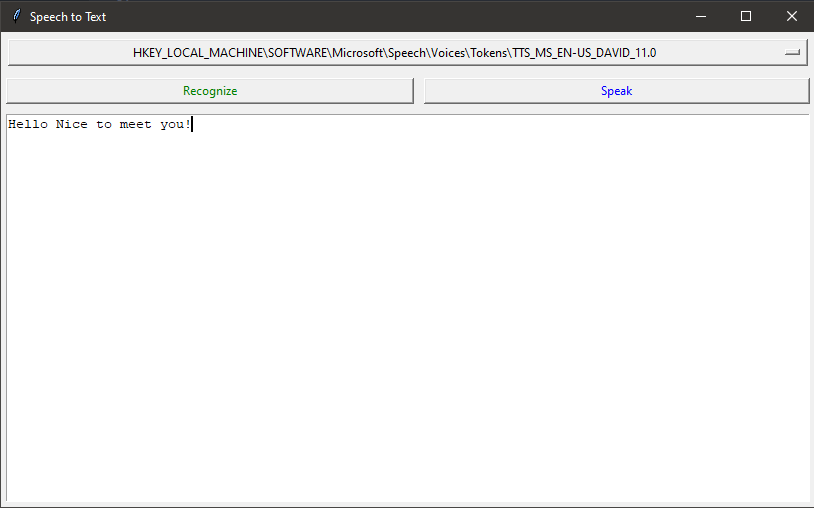
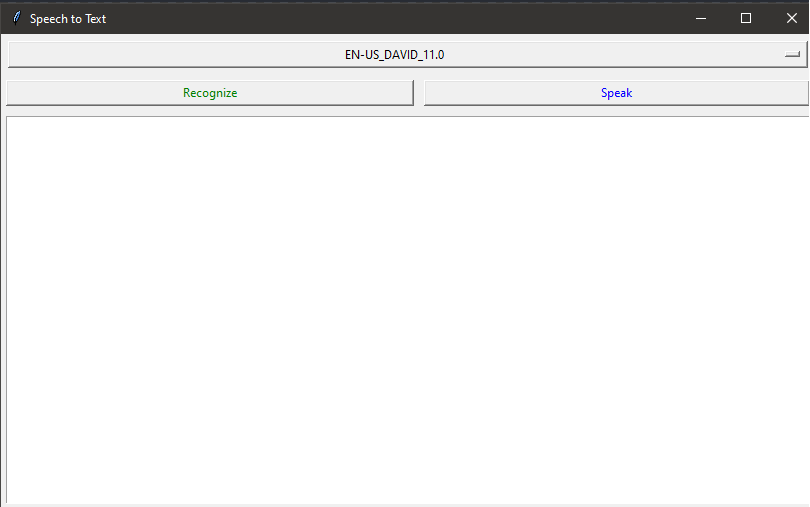
Updated Readme And Image

diff --git a/main.py b/main.py
@@ -1,3 +1,5 @@
+
+
 import speech_recognition as sr
 import pyttsx3
 import tkinter as tk
@@ -10,7 +12,7 @@ voices = engine.getProperty('voices')
 def getVoicesDetails():
     names = []
     for voice in voices:
-        names.append(voice.id)
+        names.append(voice.id.replace("HKEY_LOCAL_MACHINE\SOFTWARE\Microsoft\Speech\Voices\Tokens\TTS_MS_",''))
     return names
 
 def SpeakField():
@@ -63,10 +65,10 @@ voiceIDVar.set(voicesIDS[0])
 engine.setProperty('voice',voiceIDVar.get())
 
 Selector = tk.OptionMenu(window, voiceIDVar, *voicesIDS)
-Selector.grid(row = 0, column = 0, padx= 5 ,pady = 5, columnspan = 2, sticky = tk.N + tk.S + tk.E + tk.W)
+Selector.grid(row = 1, column = 0, padx= 5 ,pady = 5,columnspan = 2, sticky = tk.N + tk.S + tk.E + tk.W)
 
 def change_dropdown(*args):
-    engine.setProperty('voice',voiceIDVar.get())
+    engine.setProperty('voice',"HKEY_LOCAL_MACHINE\SOFTWARE\Microsoft\Speech\Voices\Tokens\TTS_MS_"+voiceIDVar.get())
 
 voiceIDVar.trace('w', change_dropdown)
 
@@ -77,17 +79,17 @@ recognize_btn = tk.Button(
     command=recognise,
     fg = "Green"
 )
-recognize_btn.grid(row = 1, column = 0, padx= 5 ,pady = 5, sticky = tk.N + tk.S + tk.E + tk.W)
+recognize_btn.grid(row = 2, column = 0, padx= 5 ,pady = 5, sticky = tk.N + tk.S + tk.E + tk.W)
 
 speak = tk.Button(
     text="Speak",
     command=SpeakField,
     fg="Blue"
 )
-speak.grid(row = 1, column = 1, padx= 5 ,pady = 5, sticky = tk.N+tk.S+tk.E+tk.W)
+speak.grid(row = 2, column = 1, padx= 5 ,pady = 5, sticky = tk.N+tk.S+tk.E+tk.W)
 
 field = tk.Text(width=100)
-field.grid(row = 2, column = 0, padx= 5 ,pady = 5, columnspan = 2)
+field.grid(row = 3, column = 0, padx= 5 ,pady = 5, columnspan = 2)
 
 if __name__ == "__main__":
     window.mainloop()

diff --git a/readme.md b/readme.md
@@ -1,0 +1,15 @@
+# Text-to-Speech & Spech-to-Text
+
+![GUI Image](https://raw.githubusercontent.com/OmerBhatti/Text-To-Speech/master/images/image.png)
+## Installation
+```python
+pip install -r requirements.txt
+```
+```python
+python main.py
+```
+
+### libraries Used
+- Tkinter
+- Speech Recognition
+- pyttsx3
